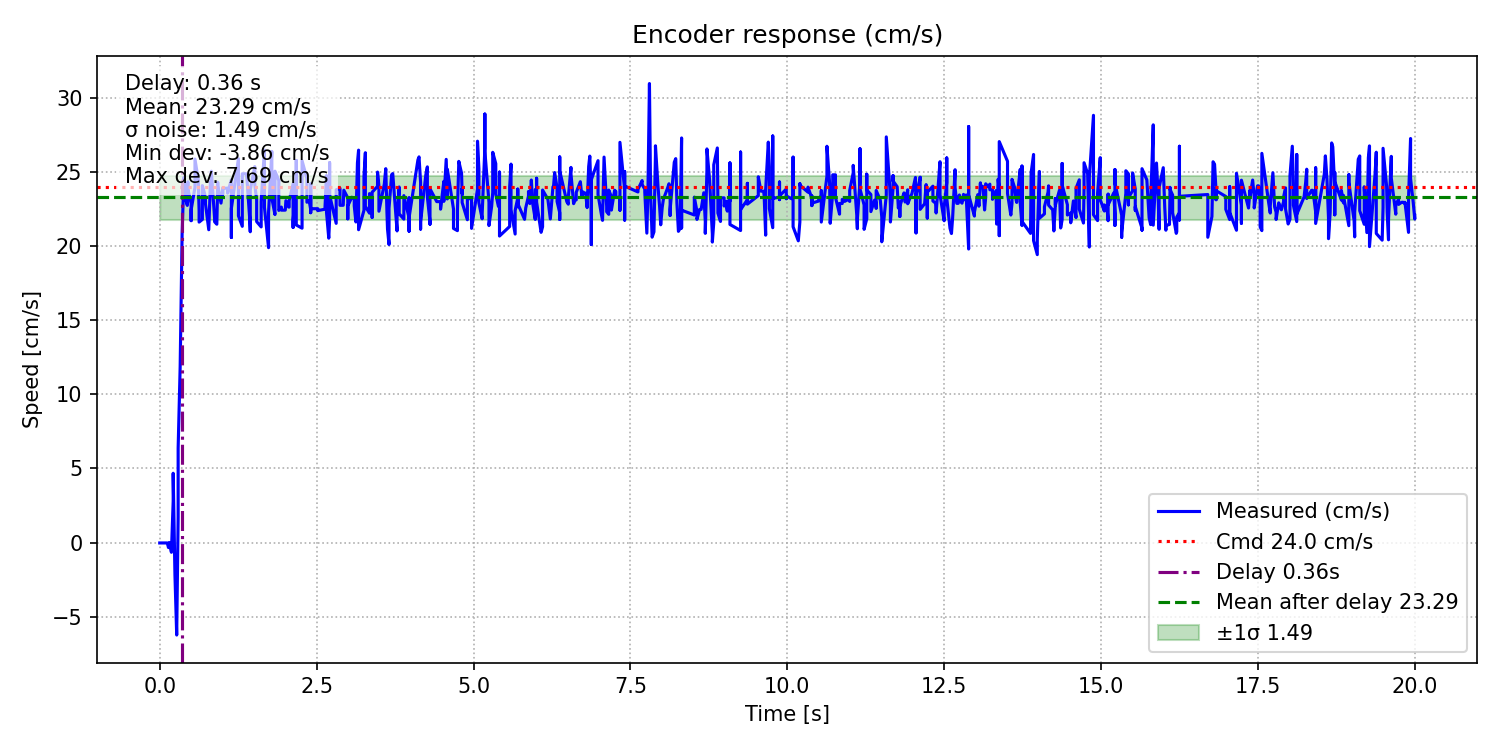
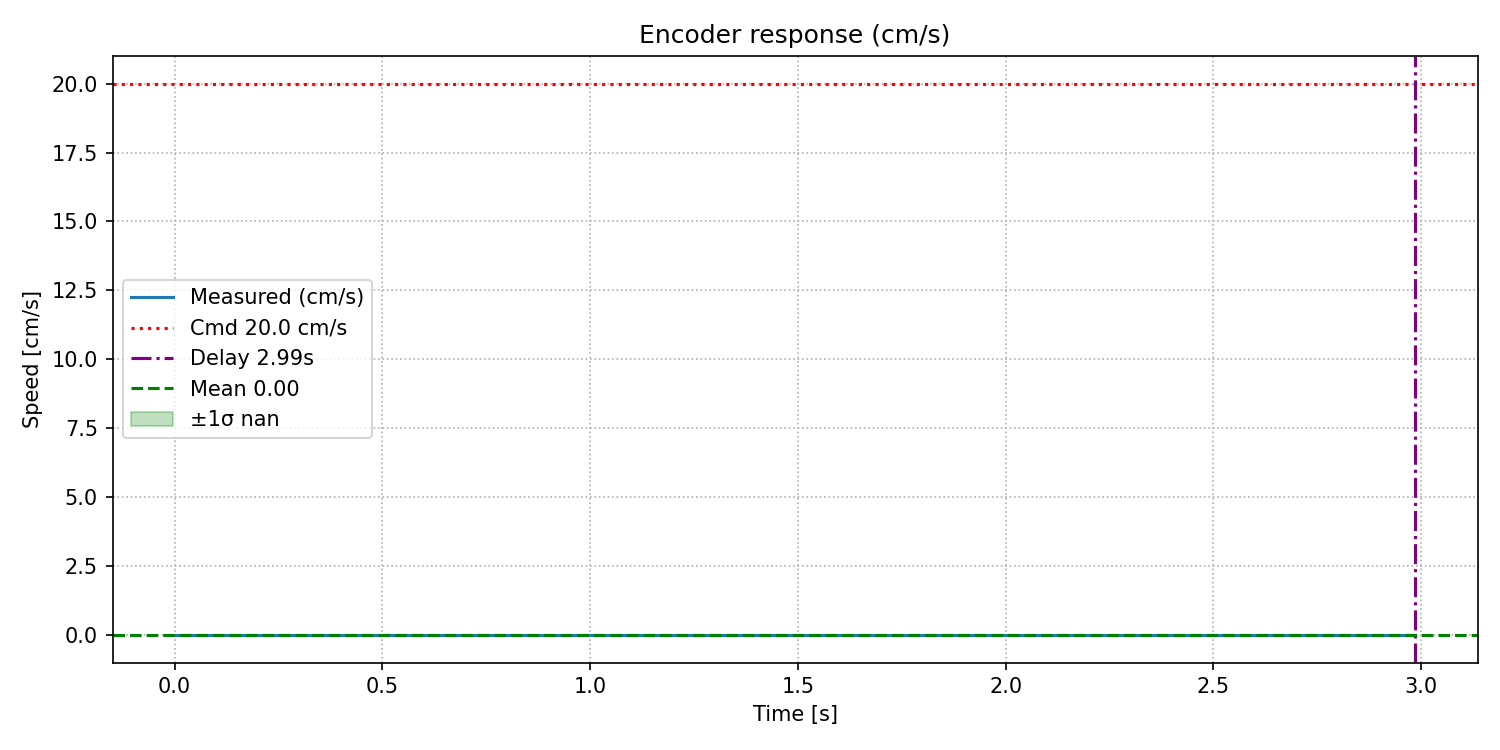
embed build

diff --git a/Embedded_Platform/Embedded_2024/scripts/encoder_pwm_calibration.py b/Embedded_Platform/Embedded_2024/scripts/encoder_pwm_calibration.py
@@ -205,8 +205,8 @@ def main() -> None:
     ap.add_argument("--cmd",  type=float, default=20, help="Commanded speed [cm/s]; ignored if --pwm provided.")
     ap.add_argument("--pwm",  type=float, default=-1, help=f"Duty cycle (0‑1). Valid range {PWM_MIN}-{PWM_MAX}. Use -1 to disable PWM mode.")
     ap.add_argument("--steer", type=float, default=-10, help="Steering angle [deg]")
-    ap.add_argument("--pwm_steer", type=float, default=-1, help="Steering angle [deg]")
-    ap.add_argument("--dur",   type=float, default=10, help="Duration [s]")
+    ap.add_argument("--pwm_steer", type=float, default=0.25, help="Steering angle [deg]")
+    ap.add_argument("--dur",   type=float, default=2, help="Duration [s]")
     ap.add_argument("--csv",   type=Path, help="Path to save raw data as CSV")
     ap.add_argument("--port",  default="/dev/ttyACM0")
     ap.add_argument("--baud",  type=int, default=115200)

diff --git a/Embedded_Platform/Embedded_2024/scripts/encoder_pid.py b/Embedded_Platform/Embedded_2024/scripts/encoder_pid.py
@@ -143,7 +143,7 @@ def save_plot(t, v, ref, delay, stats, path):
 # ────────────────────────────── CLI ───────────────────────────────────────────
 def main():
     ap = argparse.ArgumentParser("Encoder constant‑command test (PID‑capable)")
-    ap.add_argument("--cmd",  type=float, default=20.0,  help="Speed [cm/s]")
+    ap.add_argument("--cmd",  type=float, default=30.0,  help="Speed [cm/s]")
     ap.add_argument("--steer",type=float, default= 0.0, help="Steering angle [deg]")
     ap.add_argument("--pwm",  type=float, default=-1,   help=f"Duty cycle (0‑1), safe range {PWM_MIN}-{PWM_MAX}")
     ap.add_argument("--dur",  type=float, default=5.0, help="Duration [s]")

diff --git a/Embedded_Platform/Embedded_2024/scripts/encoder_noise_test.py b/Embedded_Platform/Embedded_2024/scripts/encoder_noise_test.py
@@ -167,7 +167,7 @@ def save_plot(times: list[float], speeds: list[float], cmd_speed: float, delay: 
 def main() -> None:
     ap = argparse.ArgumentParser(description="Constant‑speed noise test with delay estimation (cm/s)")
     ap.add_argument("--cmd", type=float, default=33, help="Commanded speed [cm/s]")
-    ap.add_argument("--steer", type=float, default=0, help="Steering angle [deg]")
+    ap.add_argument("--steer", type=float, default=-20, help="Steering angle [deg]")
     ap.add_argument("--dur", type=float, default=7, help="Duration [s]")
     ap.add_argument("--csv", type=Path, help="Save raw data to CSV")
     ap.add_argument("--port", default="/dev/ttyACM0")
